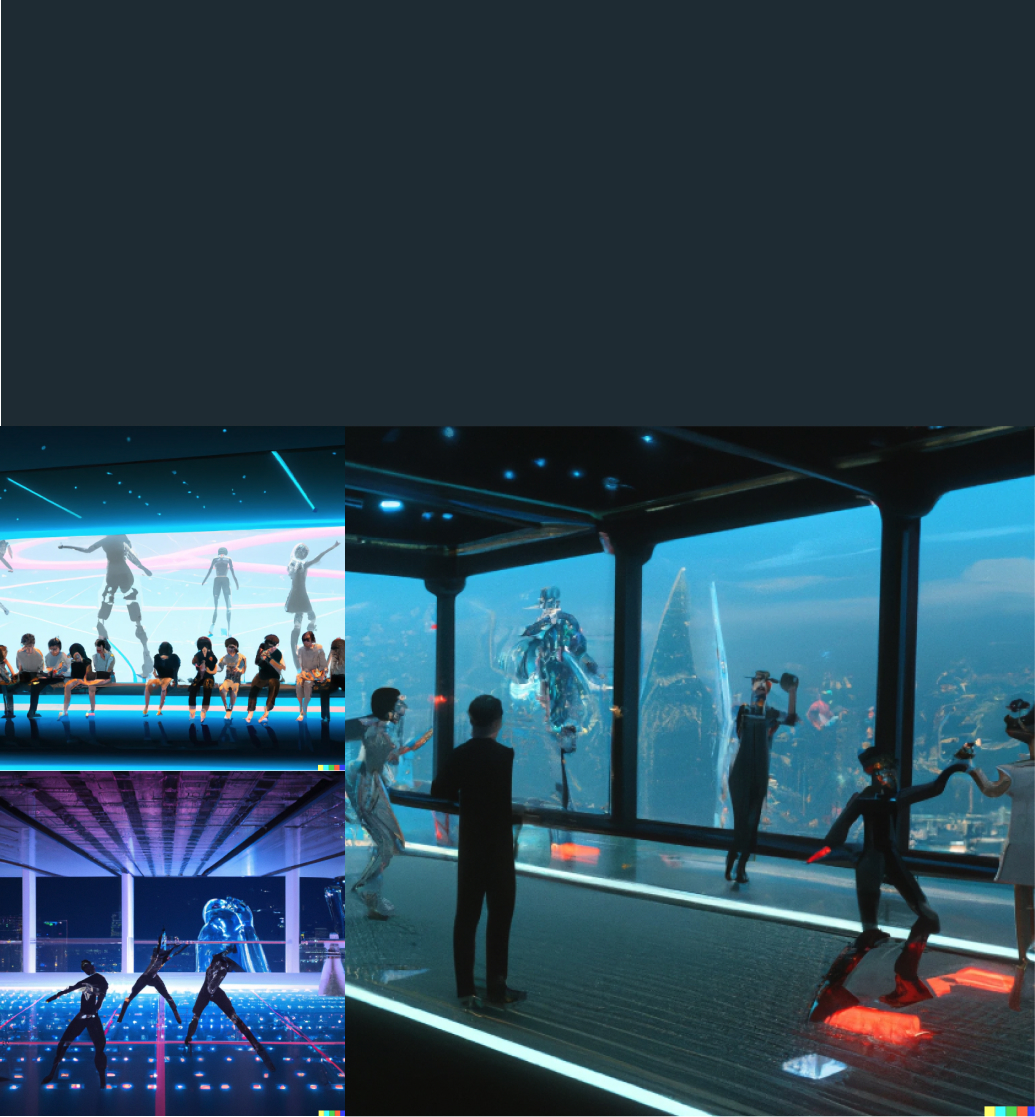
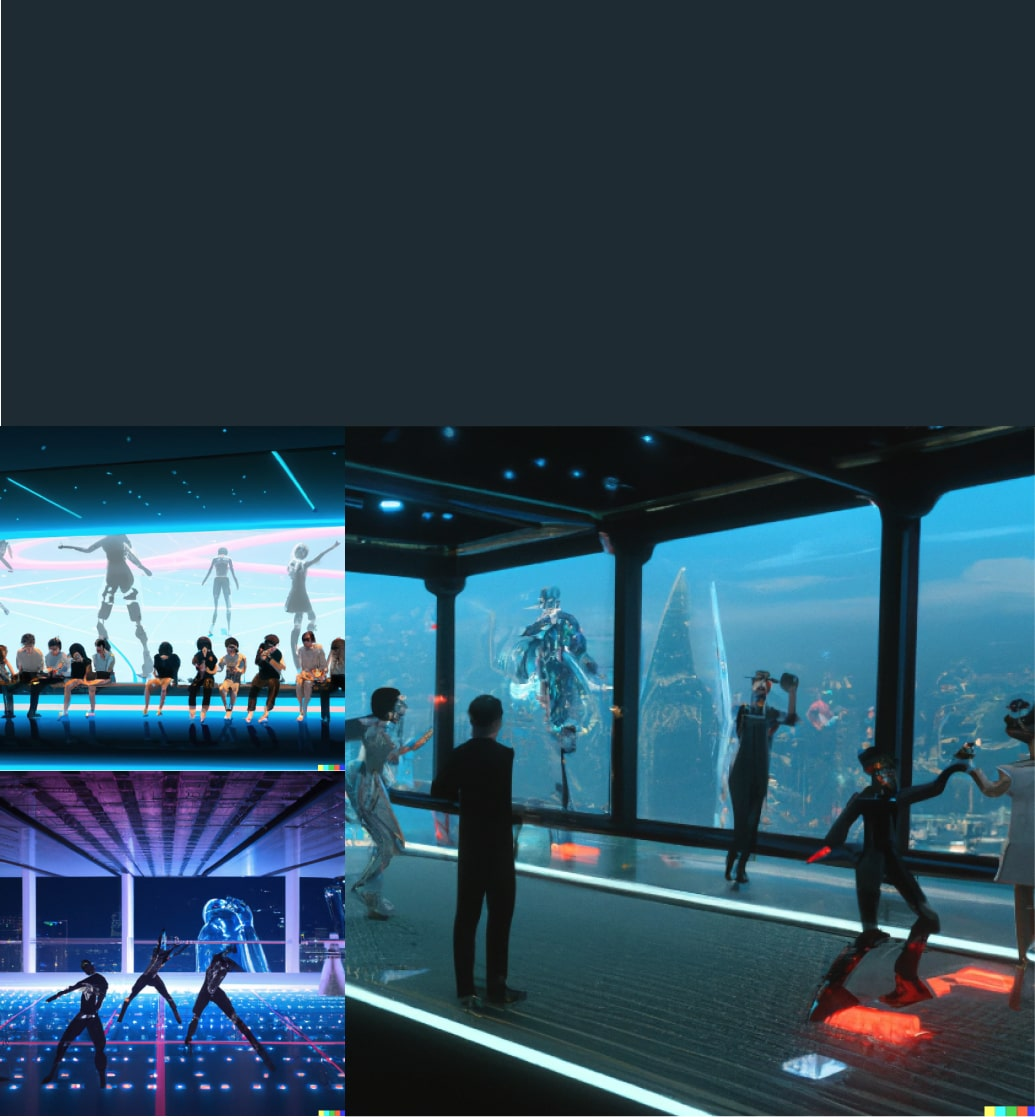
reduce sizes

diff --git a/Synthapse.Frontend/src/Services.tsx b/Synthapse.Frontend/src/Services.tsx
@@ -1,9 +1,9 @@
 import { useState } from "react";
-import BigData from "./images/BigData.jpg";
-import AIML from "./images/AIML.jpg";
-import Cloud from "./images/Cloud.jpg";
-import DevOps from "./images/Devops.jpg";
-import Development from "./images/Development.jpg";
+import BigData from "./images/BigData.webp";
+import AIML from "./images/AIML.webp";
+import Cloud from "./images/Cloud.webp";
+import DevOps from "./images/Devops.webp";
+import Development from "./images/Development.webp";
 import styled, { css, keyframes } from "styled-components";
 import { primaryColor } from "./App";
 
